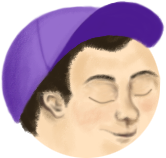
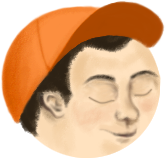
fix ExplosionShell winning bug, replace RecruitShell cap color, fix CommissarEnemy rain win

Changed region(s): [[0.0, 0.0, 0.994, 0.7848]]

diff --git a/src/entity/enemy/enemy.ts b/src/entity/enemy/enemy.ts
@@ -7,11 +7,17 @@ export default class Enemy extends Entity {
     y: number,
     textureKey: string,
     body: any,
-    destructionOptions: IDestructionOptions = null
+    destructionOptions: IDestructionOptions = null,
+    noScore: boolean = false
   ) {
     super(scene, x, y, 'enemy', textureKey, body, destructionOptions);
 
-    scene.enemies.push(this);
+    // теперь можно делать дождь из любых врагов (см. пятый уровень)!
+    this.noScore = noScore;
+
+    if (!this.noScore) {
+      scene.enemies.push(this);      
+    }
   }
 
   onDestroy(sprite) {

diff --git a/src/level/level-5.ts b/src/level/level-5.ts
@@ -56,8 +56,7 @@ export default class Level5 extends (<any>Phaser.Scene) {
     let x = randomBetween(0, 3000); // 3500 — это чтобы не падали военкомы на главного военкома
     let y = -2000;
 
-    let commissar = new CommissarEnemy(this, x, y);
-    commissar.noScore = true;
+    let commissar = new CommissarEnemy(this, x, y, true);
 
     let angularVelocityDirection = (Math.random() > 0.5) ? 1 : -1;
 
@@ -69,5 +68,5 @@ export default class Level5 extends (<any>Phaser.Scene) {
         x: 0,
         y: randomBetween(0, 100)
       });
-  }
+`  }
 }

diff --git a/src/editor/level.ts b/src/editor/level.ts
@@ -27,8 +27,8 @@ import Level3Data from '../level/data/level-3.data';
 import Level4Data from '../level/data/level-4.data';
 import Level5Data from '../level/data/level-5.data';
 
-const LEVEL_NAME = 'level-5';
-const LEVEL_DATA = Level5Data;
+const LEVEL_NAME = 'level-4';
+const LEVEL_DATA = Level4Data;
 
 const ENTITY_SELECTED_COLOR = 0x00ffff;
 
@@ -67,6 +67,7 @@ export default class LevelEditor extends (<any>Phaser.Scene) {
   constructor(config) {
     super(config);
 
+    // CONFIG.MIN_ZOOM = 0.1;
     CONFIG.MAX_ZOOM = 2;
   }
 

diff --git a/src/entity/enemy/commissar-enemy.ts b/src/entity/enemy/commissar-enemy.ts
@@ -3,7 +3,7 @@ import Enemy from './enemy';
 const PhysicsEditorParser = (<any>window).PhysicsEditorParser;
 
 export default class CommissarEnemy extends Enemy {
-  constructor(scene, x, y) {
+  constructor(scene, x, y, noScore = false) {
     super(
       scene,
       x,
@@ -21,7 +21,8 @@ export default class CommissarEnemy extends Enemy {
           name: 'smoke',
           frameRate: 18
         }
-      }
+      },
+      noScore
     );
   }
 }

diff --git a/src/config.ts b/src/config.ts
@@ -1,5 +1,5 @@
 const CONFIG = {
-  DEBUG_MODE: false,
+  DEBUG_MODE: true,
   EDITOR_MODE: false,
   EDITOR_URL: 'http://localhost:1488/',
   SCORE_URL: 'http://localhost:8888/score', // адрес, куда слать результат (может, лучше название придумать?)

diff --git a/src/entity/shell/explosion-shell.ts b/src/entity/shell/explosion-shell.ts
@@ -46,6 +46,7 @@ export default class ExplosionShell extends Shell {
     this.scene.cameras.main.shake(2000, 0.4);
     this.sprite.destroy();
 
+    this.isDestroyed = true;
     this.isDirty = true;
     this.isShooted = true;
     this.isInSlingshot = false;

diff --git a/src/level/levels-list.ts b/src/level/levels-list.ts
@@ -9,9 +9,9 @@ import Level5 from './level-5';
 // ];
 
 export default [
-  Level1,
-  Level2,
-  Level3,
-  Level4,
+  // Level1,
+  // Level2,
+  // Level3,
+  // Level4,
   Level5
 ];
